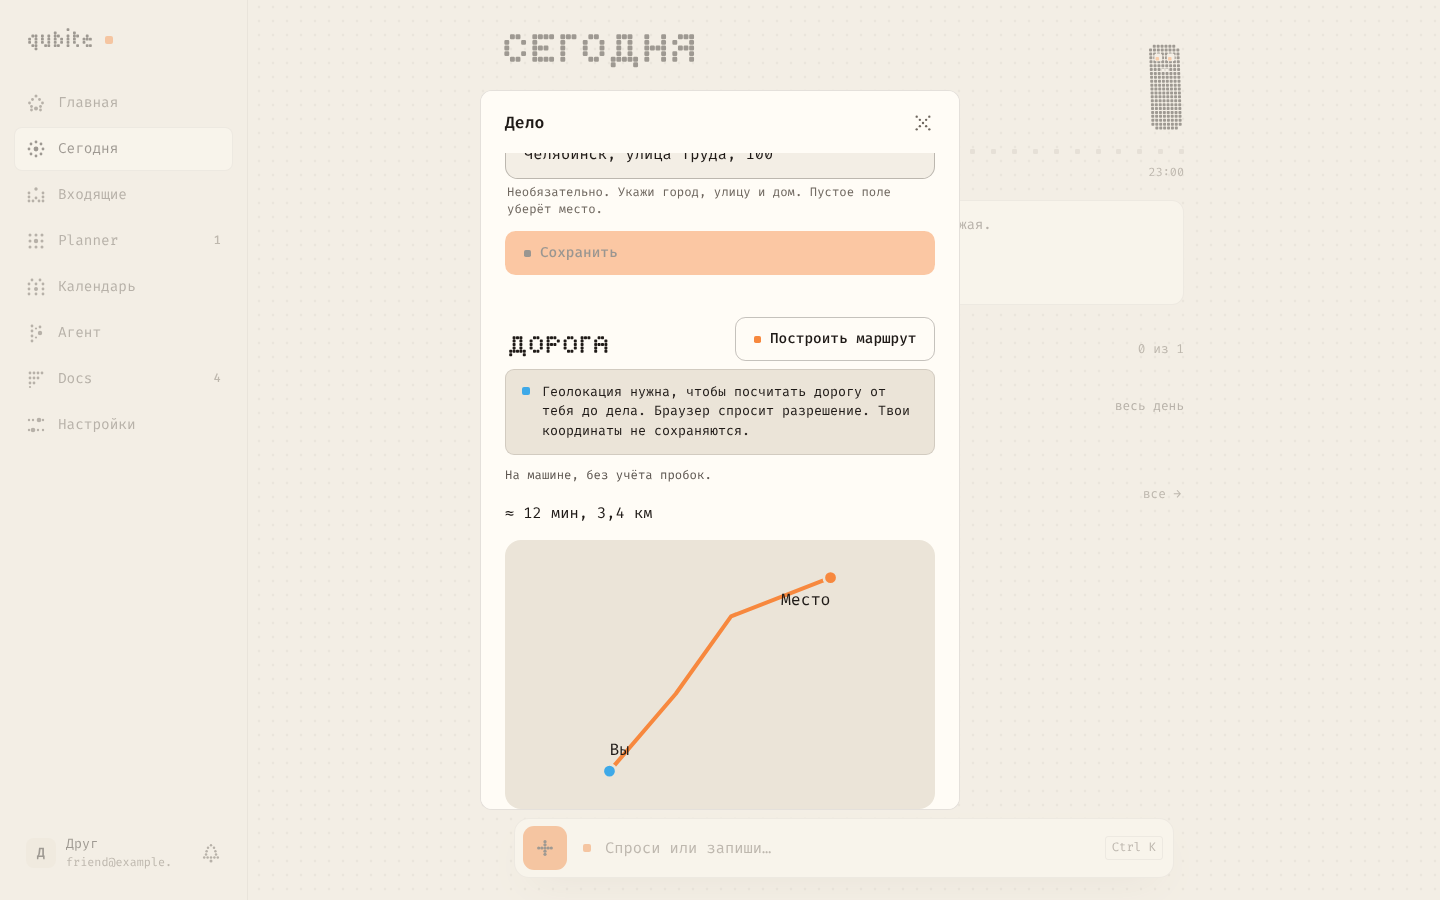
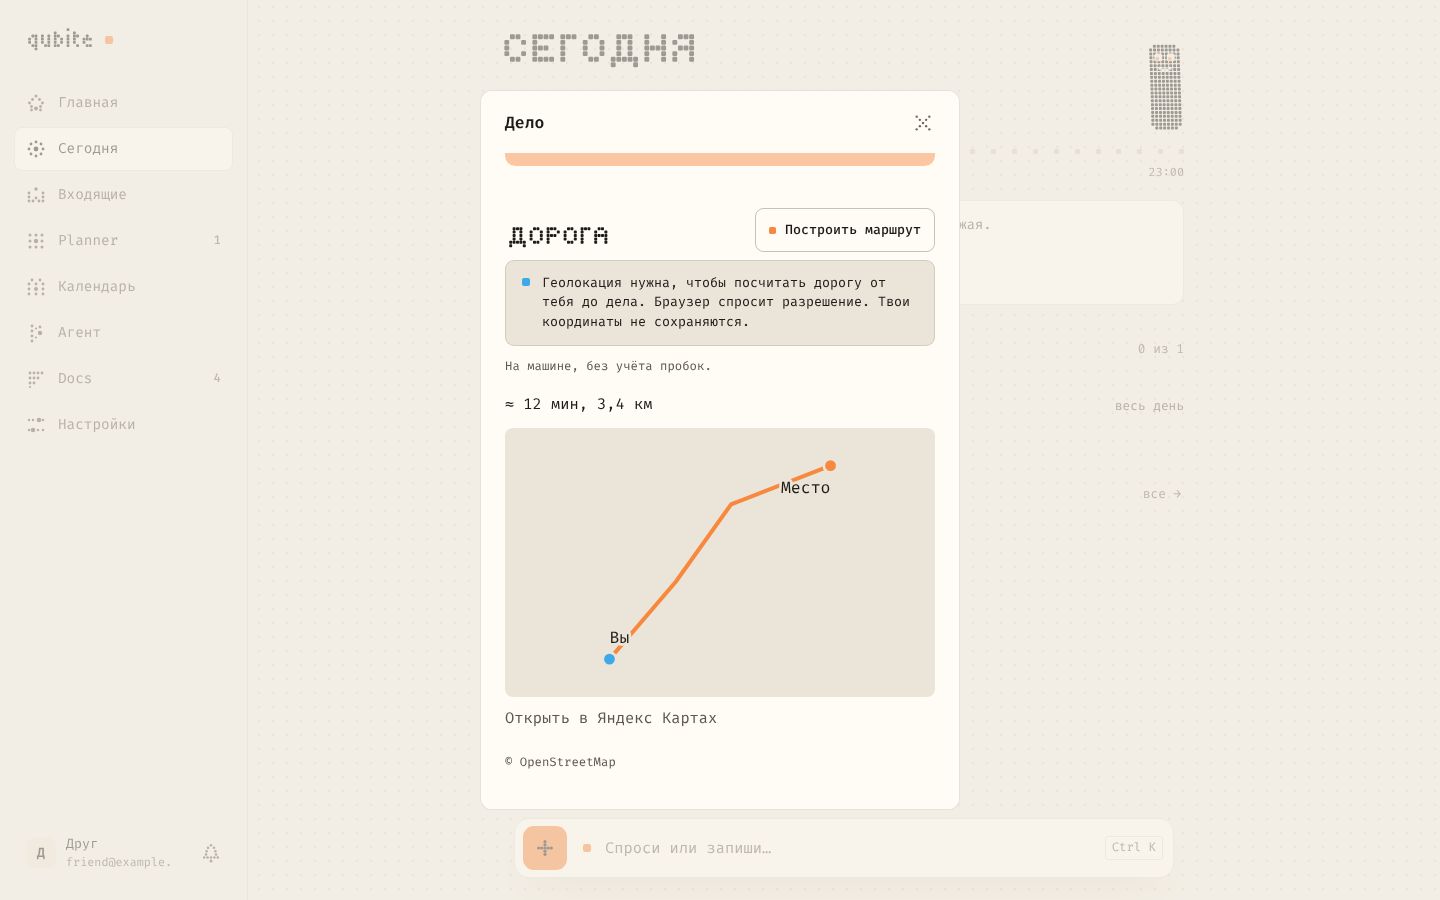
AGT-006b: правки окна «Место и дорога» по чек-листу DESIGN_SYSTEM §0.5
- кнопка «Построить маршрут» в заголовке «Дорога» — Button size="sm", как у других действий секций;
- кнопки «Сохранить» и «Построить маршрут» недоступны через aria-disabled, поле на время запроса — readOnly: фокус клавиатуры больше не слетает из окна;
- скругление схемы маршрута через --q-round, отступ под «≈ N мин» — 12 px вместо 15 px по умолчанию;
- подписи «Вы» и «Место» с обводкой цветом фона схемы — читаются поверх линии;
- снимки ПК 1440 и 360 px в обеих темах пересняты, снимок результата прокручен до ссылок; README снимков обновлён.

Claude-Session: https://claude.ai/code/session_01VuRNWwQZC2TVozrq1KnxWx

diff --git a/apps/web/src/app/TaskPlaceSheet.tsx b/apps/web/src/app/TaskPlaceSheet.tsx
@@ -132,7 +132,7 @@ export function TaskPlaceForm({
           label="Место"
           value={place}
           maxLength={1000}
-          disabled={busy || saving}
+          readOnly={busy || saving}
           onChange={(e) => {
             setPlace(e.target.value);
             setResult(null);
@@ -141,7 +141,8 @@ export function TaskPlaceForm({
           }}
           hint="Необязательно. Укажи город, улицу и дом. Пустое поле уберёт место."
         />
-        <Button type="submit" variant="fill" disabled={!dirty || busy || saving}>
+        {/* aria-disabled, а не disabled: фокус клавиатуры не слетает с кнопки на время сохранения */}
+        <Button type="submit" variant="fill" aria-disabled={!dirty || busy || saving}>
           {saving ? 'Сохраняю…' : 'Сохранить'}
         </Button>
       </form>
@@ -154,7 +155,7 @@ export function TaskPlaceForm({
       <Presence show={hasPlace}>
         <section aria-label="Дорога" aria-busy={busy}>
           <SecHead text="ДОРОГА" label="Дорога">
-            <Button disabled={busy || saving || dirty} onClick={() => void build()}>
+            <Button size="sm" aria-disabled={busy || saving || dirty} onClick={() => void build()}>
               {busy ? 'Строю…' : 'Построить маршрут'}
             </Button>
           </SecHead>

diff --git a/apps/web/src/app/task-place.css b/apps/web/src/app/task-place.css
@@ -33,11 +33,14 @@
 .task-route-result {
   margin-top: 16px;
 }
+.task-route-result p {
+  margin: 0 0 12px;
+}
 .task-route-drawing {
   display: block;
   width: 100%;
   height: auto;
-  border-radius: 16px;
+  border-radius: calc(var(--q-round) * 16px);
   background: var(--q-panel-2);
 }
 .task-route-drawing polyline {
@@ -57,10 +60,15 @@
 .task-route-to {
   fill: var(--q-orange);
 }
+/* подпись поверх линии читается: под буквами — обводка цветом фона схемы */
 .task-route-drawing text {
   fill: var(--q-ink);
   font: inherit;
   font-size: 12px;
+  paint-order: stroke;
+  stroke: var(--q-panel-2);
+  stroke-width: 4px;
+  stroke-linejoin: round;
 }
 .task-route-link {
   display: flex;

diff --git a/apps/web/e2e/task-route.spec.ts b/apps/web/e2e/task-route.spec.ts
@@ -214,7 +214,7 @@ for (const theme of ['light', 'dark']) {
       await testInfo.attach('Место', { path: editor, contentType: 'image/png' });
       await dialog.getByRole('button', { name: 'Построить маршрут' }).click();
       await expect(dialog.getByText('≈ 12 мин, 3,4 км')).toBeVisible();
-      await dialog.locator('.task-route-drawing').scrollIntoViewIfNeeded();
+      await dialog.locator('.task-route-credit').scrollIntoViewIfNeeded();
       await expect(page.locator('html')).toHaveAttribute('data-theme', theme);
       expect(await page.evaluate(() => document.documentElement.scrollWidth <= innerWidth)).toBe(
         true,

diff --git a/docs/design/screens/agt-006/README.md b/docs/design/screens/agt-006/README.md
@@ -36,8 +36,10 @@ D-740/D-741. Контракт прочитан через GitHub из основ
 
 ## Снимки и приёмка
 
-Снимки пока **не созданы и не просмотрены**: владелец запретил запуск браузера,
-проверок, сборок и установку пакетов на Pi в этой сессии.
+Снимки `chromium-*.png` сняты в облаке (Chromium) и просмотрены 30.10.2026 по
+DESIGN_SYSTEM §0.5: токены, `Button size="sm"` в заголовке «Дорога», подписи «Вы» и
+«Место» с обводкой поверх линии, на 360 px без горизонтальной прокрутки. Снимок
+результата прокручен до ссылок «Открыть в Яндекс Картах» и «© OpenStreetMap».
 
 В `apps/web/e2e/task-route.spec.ts` подготовлены сценарии со stub API и
 подменённой геолокацией. При запуске CI они сохраняют сюда PNG окна места и
@@ -45,9 +47,7 @@ D-740/D-741. Контракт прочитан через GitHub из основ
 для каждого браузерного проекта. Те же PNG прикладываются к отчёту Playwright.
 В сценарии проверяются ширина страницы и окна без горизонтальной прокрутки.
 
-После CI нужно приложить снимки к ревью и посмотреть их глазами. Чек-лист
-DESIGN_SYSTEM §0.5 и приёмка владельцем пока не завершены; UI-задача не объявляется
-готовой до этой приёмки.
+Приёмка владельцем пока не завершена; UI-задача не объявляется готовой до неё.
 
 ## Проверки
 
